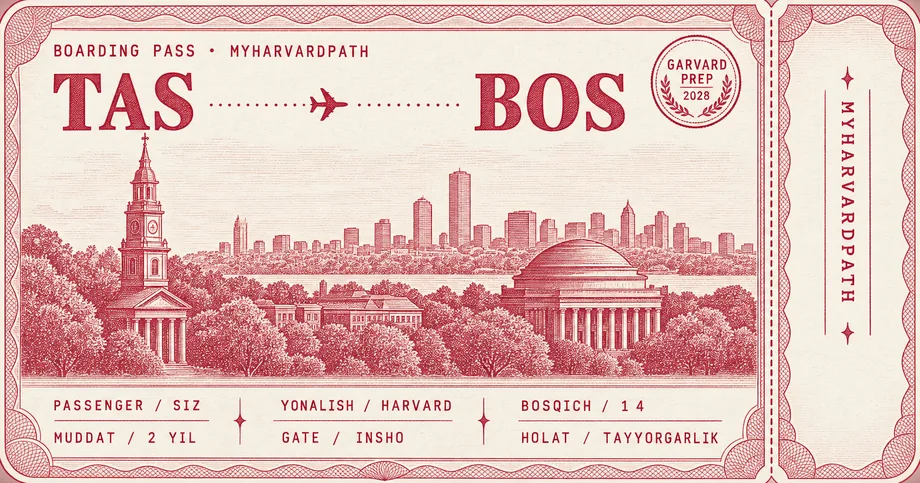
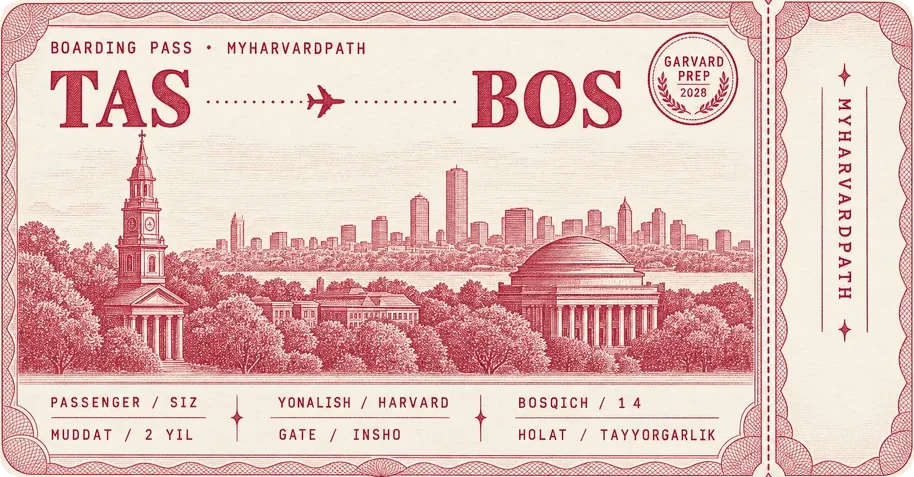
Fix inner scrolling, the dead QR, navbar crowding, ticket framing and dark-mode red
- The smooth-scroll wheel handler swallowed every event, so scrollable
  containers (the book modal) could only be moved by dragging their scrollbar.
  It now stands down when a scrollable ancestor under the cursor still has
  room in that direction.
- The QR carried filter: brightness(0), which blackened its white background
  too and rendered the whole code as a solid square. Filter dropped; the code
  stays black-on-white, which is also what scanners want.
- Navbar: 44px before Profil and 67px before the Telegram button, so the three
  zones read as three zones.
- Ticket: wider hero column (562px, was 435), dropped below the headline, and
  the leftover dark bleed outside its rounded corners cut away in the image
  itself with an alpha mask, so drop-shadow follows the real outline.
- Dark-mode red was pink because its saturation was 0.58. Split into a
  readable accent (#E8434F, 4.7:1) and a deeper fill for buttons (#C42133,
  5.8:1 against white).

diff --git a/styles.css b/styles.css
@@ -13,7 +13,8 @@
   --ink: #16181D;           /* body text */
   --gold: #9A7B2F;          /* demoted: rare highlight only */
   --teal: #9A7B2F;          /* retired — aliased so old rules don't go stray */
-  --stamp-red: #A51C30;     /* THE accent (Harvard Crimson) */
+  --stamp-red: #A51C30;      /* THE accent (Harvard Crimson) */
+  --stamp-red-fill: #A51C30; /* to'ldirish uchun; qorong'u temada ajratiladi */
   --cream-text: #F2F0EA;
   --muted: #6E7075;         /* neutral grey, not warm brown */
   --surface: #FFFFFF;
@@ -66,7 +67,7 @@ body {
 a { color: inherit; text-decoration: none; }
 img { max-width: 100%; display: block; }
 
-::selection { background: var(--stamp-red); color: #fff; }
+::selection { background: var(--stamp-red-fill); color: #fff; }
 
 :focus-visible { outline: 2px solid var(--stamp-red); outline-offset: 3px; }
 
@@ -111,7 +112,11 @@ header.nav {
   flex-shrink: 0;
 }
 .logo .dot { color: var(--stamp-red); }
-nav.links { display: flex; gap: 28px; align-items: center; flex-wrap: nowrap; }
+nav.links { display: flex; gap: 26px; align-items: center; flex-wrap: nowrap; }
+/* Menyu uch bo'lakdan iborat: bo'limlar → Profil → Telegram tugmasi.
+   Har bo'lak orasida kattaroq nafas joyi, aks holda hammasi bir tizmaday
+   qisilib turadi. */
+nav.links .nav-group + a { margin-left: 18px; }
 nav.links a {
   font-family: var(--font-mono);
   font-size: 0.74rem;
@@ -121,8 +126,8 @@ nav.links a {
   transition: color 0.2s;
   white-space: nowrap;
 }
-/* "Telegram →" tugmasi menyuning bir qismi emas — undan oldin nafas joyi */
-nav.links .nav-cta { margin-left: 8px; }
+/* "Telegram →" tugmasi menyuning bir qismi emas — undan oldin keng ajratish */
+nav.links .nav-cta { margin-left: 40px; }
 nav.links a:hover, nav.links a.active { color: var(--stamp-red); }
 .nav-cta {
   background: var(--navy);
@@ -132,7 +137,7 @@ nav.links a:hover, nav.links a.active { color: var(--stamp-red); }
   font-weight: 600 !important;
   transition: background 0.18s ease;
 }
-.nav-cta:hover { background: var(--stamp-red); }
+.nav-cta:hover { background: var(--stamp-red-fill); }
 .nav-toggle { display: none; background: none; border: none; cursor: pointer; font-size: 1.3rem; }
 
 /* ---------- NAV dropdown groups ---------- */
@@ -224,9 +229,9 @@ h1.subhero-title em { font-style: normal; color: var(--stamp-red); }
   padding: 0 32px;
   position: relative;
   display: grid;
-  grid-template-columns: 1.25fr 0.75fr;
-  gap: 56px;
-  align-items: start;   /* chipta pastga tushib ketmasin — matn bilan bir sathda boshlansin */
+  grid-template-columns: 1fr 0.92fr;   /* chiptaga kengroq ustun — rasm kattaroq chiqadi */
+  gap: 44px;
+  align-items: start;
 }
 .eyebrow {
   font-family: var(--font-mono);
@@ -264,7 +269,7 @@ h1.hero-title em { font-style: normal; color: var(--stamp-red); }
 
 /* Buttons: squared and quiet. No pills, no glow, no scale. */
 .btn-primary {
-  background: var(--stamp-red);
+  background: var(--stamp-red-fill);
   color: #fff;
   font-weight: 600;
   padding: 14px 26px;
@@ -305,13 +310,16 @@ h1.hero-title em { font-style: normal; color: var(--stamp-red); }
 /* Saytning imzo obyekti — faqat bosh sahifada, bir marta.
    Chiptaning o'zi (ramka, yozuvlar, gravyura) endi bitta rasm, shuning uchun
    bu yerda faqat joylashuv va yengil soya qoladi. */
-.pass { position: relative; display: block; }
+/* Chipta sarlavha bilan bir sathda emas, sal pastroqda — matn blokining
+   o'rtasiga to'g'ri kelsin. */
+.pass { position: relative; display: block; margin-top: clamp(24px, 4.5vw, 62px); }
 .pass img {
   width: 100%;
   height: auto;
   display: block;
-  border-radius: 4px;
-  box-shadow: 0 16px 36px rgba(0,0,0,0.3);
+  /* Burchaklari rasmning o'zida shaffof qilingan, shuning uchun box-shadow
+     emas — u to'rtburchakni chizadi; drop-shadow alfa konturga ergashadi. */
+  filter: drop-shadow(0 16px 32px rgba(0,0,0,0.34));
 }
 .pass-main { flex: 1; padding: 26px 22px; }
 .pass-stub {
@@ -1017,7 +1025,7 @@ footer { background: var(--navy); color: var(--cream-text); padding: 70px 0 32px
 .mode-tab.active { background: var(--navy); color: var(--cream-text); border-color: var(--navy); }
 .vocab-pane[hidden] { display: none; }
 .chip-alt { border-style: dashed; }
-.chip-alt.active { background: var(--stamp-red); border-color: var(--stamp-red); color: #fff; }
+.chip-alt.active { background: var(--stamp-red-fill); border-color: var(--stamp-red-fill); color: #fff; }
 
 /* ---------- FLASHCARD MARK BUTTONS ---------- */
 .flash-mark-row { display: flex; gap: 10px; margin-top: 6px; }
@@ -1098,6 +1106,8 @@ footer { background: var(--navy); color: var(--cream-text); padding: 70px 0 32px
 @media (max-width: 900px) {
   nav.links { gap: 14px; }
   nav.links a:not(.nav-cta) { font-size: 0.68rem; }
+  nav.links .nav-group + a { margin-left: 8px; }
+  nav.links .nav-cta { margin-left: 16px; }
 }
 @media (max-width: 860px) {
   .hero-inner { grid-template-columns: 1fr; }
@@ -1195,7 +1205,7 @@ footer { background: var(--navy); color: var(--cream-text); padding: 70px 0 32px
   background: var(--surface); cursor: pointer; font-size: 1rem; color: var(--ink); flex-shrink: 0;
   transition: background 0.2s ease, border-color 0.2s ease;
 }
-.book-modal-close:hover { background: var(--stamp-red); color: #fff; border-color: var(--stamp-red); }
+.book-modal-close:hover { background: var(--stamp-red-fill); color: #fff; border-color: var(--stamp-red-fill); }
 .book-modal-tools { display: flex; flex-wrap: wrap; gap: 14px; align-items: center; margin-bottom: 22px; }
 .book-search {
   flex: 1 1 220px; padding: 10px 14px; border-radius: 10px; border: 1px solid rgba(27,42,74,0.18);
@@ -1251,7 +1261,13 @@ html[data-theme="dark"] {
   --nav-bg: rgba(18, 19, 22, 0.88);
   --gold: #C9A961;
   --teal: #C9A961;
-  --stamp-red: #E8616F;   /* qorong'u fonda o'qilishi uchun yorug'roq qirmizi */
+  /* Avvalgi #E8616F to'yinganligi past edi (0.58) — shuning uchun pushti
+     ko'rinardi. Bu rang yorqinroq, ammo qirmizi bo'lib qoladi (to'yinganlik
+     0.71, fonga nisbatan kontrast 4.7:1). */
+  --stamp-red: #E8434F;
+  /* To'ldirilgan tugma/nishonlar uchun quyuqroq qirmizi: yorug' rang katta
+     maydonda pushti dog'day ko'rinadi; oq matn bilan kontrast 5.8:1. */
+  --stamp-red-fill: #C42133;
 }
 html[data-theme="dark"] .uni-item:hover:not(:disabled) { background: rgba(237,235,230,0.05); }
 html[data-theme="dark"] ::selection { color: #14161C; }
@@ -1274,7 +1290,7 @@ html[data-theme="dark"] .book-search {
   border-color: var(--surface-border);
 }
 html[data-theme="dark"] .chip.active { background: var(--gold); color: var(--navy); border-color: var(--gold); }
-html[data-theme="dark"] .chip-alt.active { background: var(--stamp-red); color: var(--navy); border-color: var(--stamp-red); }
+html[data-theme="dark"] .chip-alt.active { background: var(--stamp-red-fill); color: #fff; border-color: var(--stamp-red-fill); }
 html[data-theme="dark"] .leg-lugat { color: var(--stamp-red) !important; }
 html[data-theme="dark"] .checklist-progress-bar { background: rgba(233,228,212,0.12); }
 html[data-theme="dark"] nav.links a { color: rgba(233,228,212,0.8); }
@@ -1639,15 +1655,17 @@ table.compare tbody th {
   transition: border-color 0.18s ease;
 }
 .qr-card:hover { border-color: var(--stamp-red); }
+/* Filtr qo'yilmaydi: brightness(0) QR'ning oq fonini ham qoraytirib,
+   butun kvadratni qop-qora qilib qo'yardi. QR kod skanerlanishi uchun
+   qora-oq qolishi ham eng ishonchlisi — ikkala temada ham oq fonda. */
 .qr-card img {
   width: 116px;
   height: 116px;
   flex: none;
-  /* QR qora emas, saytning siyoh rangida chiqsin */
-  filter: brightness(0) saturate(100%);
-  opacity: 0.9;
+  background: #fff;
+  padding: 6px;
+  border-radius: 2px;
 }
-html[data-theme="dark"] .qr-card img { filter: brightness(0) invert(1); }
 .qr-card-text { display: grid; gap: 4px; }
 .qr-card-label {
   font-family: var(--font-mono);

diff --git a/main.js b/main.js
@@ -44,8 +44,27 @@
     if (running) requestAnimationFrame(frame);
   }
 
+  /* Ichida o'z scroll'i bor element (modal, uzun ro'yxat, dropdown) ustida
+     turgan bo'lsak — sahifani emas, o'sha elementni aylantirish kerak.
+     Kursor tagidagi zanjirni tekshiramiz: shu yo'nalishda joyi qolgan
+     birinchi scrollable topilsa, brauzerga o'zi bajarsin deb qo'yib beramiz. */
+  function scrollableUnder(node, dy) {
+    for (let el = node; el && el !== document.body && el !== document.documentElement; el = el.parentElement) {
+      if (!(el instanceof Element)) continue;
+      const room = el.scrollHeight - el.clientHeight;
+      if (room <= 1) continue;
+      const oy = getComputedStyle(el).overflowY;
+      if (oy !== 'auto' && oy !== 'scroll') continue;
+      const atTop = el.scrollTop <= 0;
+      const atBottom = el.scrollTop >= room - 1;
+      if ((dy < 0 && !atTop) || (dy > 0 && !atBottom)) return true;
+    }
+    return false;
+  }
+
   window.addEventListener('wheel', (e) => {
     if (e.ctrlKey) return; // zoom — tegmaymiz
+    if (scrollableUnder(e.target, e.deltaY)) return;
     e.preventDefault();
     target = Math.min(max(), Math.max(0, target + e.deltaY));
     if (!running) { running = true; requestAnimationFrame(frame); }
